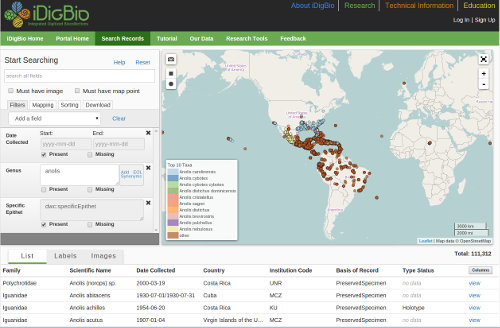
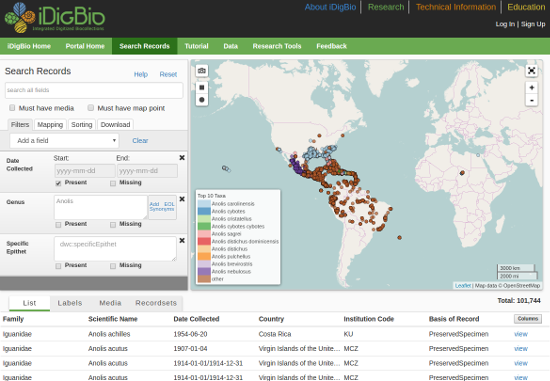
Update Tutorial, screenshots, language, titles, function descriptions

diff --git a/app/views/tutorial.html b/app/views/tutorial.html
@@ -19,17 +19,18 @@
          <div style="margin:10px;">
         		<div id="introduction" style="background-color: #E5E5E5;border-bottom: 1px solid #FFFFFF;height: 1px;margin: 9px 1px;width:100%;" class="scrollspy"></div>
             	<h3 >Introduction</h3>
-            	<p><u>The iDigBio specimen portal</u> (<em>https://www.idigbio.org/portal</em>) provides access to millions of records about neontological and paleontological specimens curated at museums and other institutions in the US. Records might include information about the specimen, when, where and by whom it was collected, the institution providing the data, and media related to the specimen (currently only images of the specimen or the specimen label are available). The main intent of this tutorial is to familiarize the user with the search capabilities of this portal.</p>
+            	<p><u>The iDigBio specimen portal</u> (<em>https://www.idigbio.org/portal</em>) provides access to millions of records about neontological and paleontological specimens curated at museums and other institutions in the US. Records might include information about the specimen, when, where and by whom it was collected, the institution providing the data, images and other media related to the specimen. The main intent of this tutorial is to familiarize the user with the search capabilities of this portal.</p>
               <h3 id="requirements" style="margin-top:30px;">Requirements</h3>
               <p>
                 The iDigBio Portal requires the use of an HTML5 compliant browser with cookies enabled. The Portal has been tested successfully against, and is supported for, the following browsers:<br>
-                <b>Chrome</b><br>
+                <br><b>Chrome</b><br>
                 <b>Firefox</b><br>
                 <b>Safari</b><br>
                 <b>Internet Explorer</b> 10,11<br>
+                <b>Microsoft Edge</b>
               </p>
             	<h3 id="navigating" class="scrollspy" style="margin-top:30px;">Portal Navigation</h3>
-            	<p>The main features of the portal can be accessed through the <b>Green Menu Bar</b> <em>(Fig. 1)</em> near the top of the page.  The menu choices include links to the <em><b>iDigBio Home</b></em>, the <em><b>Portal Home</b></em> page, the <em><b>Search Records</b></em> page, <em><b>Tutorial</b></em> (this page), and <em><b>Feedback</b></em>, which are detailed next.</p>
+            	<p>The main features of the portal can be accessed through the <b>Green Menu Bar</b> <em>(Fig. 1)</em> near the top of the page.  The menu choices include links to the <em><b>iDigBio Home</b></em>, the <em><b>Portal Home</b></em> page, the <em><b>Search Records</b></em> page, <em><b>Tutorial</b></em> (this page), the <em><b>Data</b></em> page, the <em><b>Research Tools</b></em> page, and <em><b>Feedback</b></em>, which are detailed next.</p>
               <div class="clearfix">
                 <figure id="fig1" >
                 	<figcaption>Fig. 1</figcaption>
@@ -44,7 +45,7 @@
 
         		<p>The <em><b>Tutorial</b></em> page is this page.</p>
 
-             <p>Use the <em><b>Our Data</b></em> menu to access the <em><b>Publishers</b></em> and <em><b>Collections</b></em> submenu pages. The <em><b>Publications</b></em> page provides general count and usage statistics about the datasets and publishers provided to iDigBio. The <em><b>Collections</b></em> page provides a comprehensive list of collections and institutions that house data in the United States.</p>
+             <p>Use the <em><b>Data</b></em> menu to access the <em><b>Publishers</b></em> and <em><b>Collections</b></em> submenu pages. The <em><b>Publishers</b></em> page provides general count and usage statistics about the datasets and publishers provided to iDigBio. The <em><b>Collections</b></em> page provides a comprehensive list of collections and institutions that house data in the United States.</p>
 
             <p>Use the <em><b>Research Tools</b></em> page to view research software that make use of services and data.</p>
 
@@ -61,11 +62,11 @@
             </p>
               <figure id="fig2"  class="clearfix">
                   <figcaption>Fig. 2</figcaption>
-                  <img style="width:60%;" src="/portal/img/tutorial/search-page.png">
+                  <img src="/portal/img/tutorial/search-page.png">
               </figure>
         		<h4 id="searching" class="scrollspy" style="margin-top:30px;">Understanding and Performing Searches</h4>
 
-        		<p>The search form section of the <em><b>Search Records</b></em> page <em>(Fig. 3)</em> provides all fields necessary for doing full text and advanced exact match searching across iDigBio data. The <b>search all field</b> box allows you to search a term across all fields of the data simultaneously. If you search for ‘carex’, this term is searched in all fields, and the search returns records where ‘carex’ appears in a scientific name, genus, host, locality, or any other place where it appears, excluding substrings (parts of words). Searches are not case-sensitive, i.e., ‘carex’ and ‘Carex’ will return the same result. Checking the box <b>Must have image</b> restricts mapped and record results to those specimens that have related images. Checking the <b>Must have map point</b> restricts the record results section to show only records that contain geopoint data (mapping results can contain only records with geopoint data).</p>
+        		<p>The search form section of the <em><b>Search Records</b></em> page <em>(Fig. 3)</em> provides all fields necessary for doing full text and advanced exact match searching across iDigBio data. The <b>search all field</b> box allows you to search a term across all fields of the data simultaneously. If you search for ‘carex’, this term is searched in all fields, and the search returns records where ‘carex’ appears in a scientific name, genus, host, locality, or any other place where it appears, excluding substrings (parts of words). Searches are not case-sensitive, i.e., ‘carex’ and ‘Carex’ will return the same result. Checking the box <b>Must have media</b> restricts mapped and record results to those specimens that have related images and other media. Checking the <b>Must have map point</b> restricts the record results section to show only records that contain geopoint data (mapping results can contain only records with geopoint data).</p>
             <div class="clearfix">      		
               <figure id="fig3">
                   <figcaption>Fig. 3</figcaption>
@@ -117,7 +118,7 @@
 
         		<h3 id="viewing" class="scrollspy" style="margin-top:30px;">Viewing Results</h3>
 
-        		<p>Results data are displayed below the search form and mapped results sections. This section displays the total number of results matching your search criteria and gives you three options for displaying the results: <b>List</b> view, <b>Label</b> view, <b>Images</b> gallery and the <b>Recordsets</b> view. The <b>List</b> view allows you to display any number of columns of DwC data that are searchable in iDigBio. The right side of the <b>List</b> view headers provides a configuration button that allows you to select which columns are viewable in the list. The <b>Label</b> view displays a stylized specimen label, with a pre-determined set of information (taxonomy, geography, and collection data) and a thumbnail of a related image when available. The <b>Images</b> gallery displays all images associated with the specimen records search results. Each image contains a pre-determined set of information (taxonomy, collection data) displayed as a label over the image. Clicking on the image will open its associated media record. The <b>Recordsets</b> view provides a list of recordsets and record counts that are present in the search results. </p> 
+        		<p>Results data are displayed below the search form and mapped results sections. This section displays the total number of results matching your search criteria and gives you four options for displaying the results: <b>List</b> view, <b>Label</b> view, <b>Media</b> gallery and the <b>Recordsets</b> view. The <b>List</b> view allows you to display any number of columns of DwC data that are searchable in iDigBio. The right side of the <b>List</b> view headers provides a configuration button that allows you to select which columns are viewable in the list. The <b>Label</b> view displays a stylized specimen label, with a pre-determined set of information (taxonomy, geography, and collection data) and a thumbnail of a related image when available. The <b>Media</b> gallery displays all images and media associated with the specimen record search results. Each image contains a pre-determined set of information (taxonomy, collection data) displayed as a label over the image. Clicking on the image will open its associated media record. The <b>Recordsets</b> view provides a list of recordsets and record counts that are present in the search results. </p> 
 
         		<p>Clicking on a single row of the table or a single label displays a complete specimen record page <em>(Fig. 7)</em>, including a summary section at the top, any associated media, a map with the location if applicable and the attribution information.  The very bottom portion of the page includes all data available in the idigbio API. It includes a complete list of the Darwin Core data, a list of data correction/issue flags and their descriptions and a complete view of the raw data as it exists in the API. With the raw data you can have a peek at the data that is available to you to add value to other portals. It can also be used to view additional information created by iDigBio, such as the internal GUID or when the record was ingested or updated in our system, and to detect whether iDigBio is not accurately displaying the data as it came from the provider.</p>
             <p>Clicking on the image in the 
@@ -136,11 +137,11 @@
             <p>The map provides several controls for further interaction. The top left corner provides two sets of controls. The camera button <img src="/portal/img/tutorial/camera-button.png" /> allows you to create a PNG image of the map as displayed the moment you click the button. This feature can take several seconds to generate the image. The buttons below the camera button provide boundary drawing capabilities. Click the rectangle <img src="/portal/img/tutorial/rectangle-button.png" /> or circle button <img src="/portal/img/tutorial/circle-button.png" /> to draw a rectangular or circular boundary around a geographic area to further limit your results to records with geopoints inside the boundry. The button in the top right corner is a toggle between regular and a full screen mode. Below the full screen button are the zoom-in and zoom-out buttons. The map zoom can also be changed with a mouse scroll wheel when the mouse pointer is over the map. You can also draw a boundary to zoom in to by holding the <b>shift</b> button on your keyboard and using your mouse to draw the box boundary.</p>
 
             <div class="clearfix">
-              <figure id="fig8"  style="float:left;margin:20px;" >
+              <figure id="fig8" style="display:inline-block;margin:10px 10px;" >
                   <figcaption>Fig. 8</figcaption>          
                   <img src="/portal/img/tutorial/heatmap.jpg"> 
               </figure>
-              <figure id="fig9"  style="float:right;margin:20px;">
+              <figure id="fig9" style="display:inline-block;margin:10px 10px;">
                   <figcaption>Fig. 9</figcaption>          
                   <img src="/portal/img/tutorial/pointmap.jpg"> 
               </figure>
@@ -173,7 +174,7 @@
                   <td>view</td>
                   <td>Which format to show the results in</td>
                   <td>
-                    value can be either "list", "labels", "images", "recordsets"
+                    value can be either "list", "labels", "media", "recordsets"
                   </td>
                 </tr>
               </tbody>
